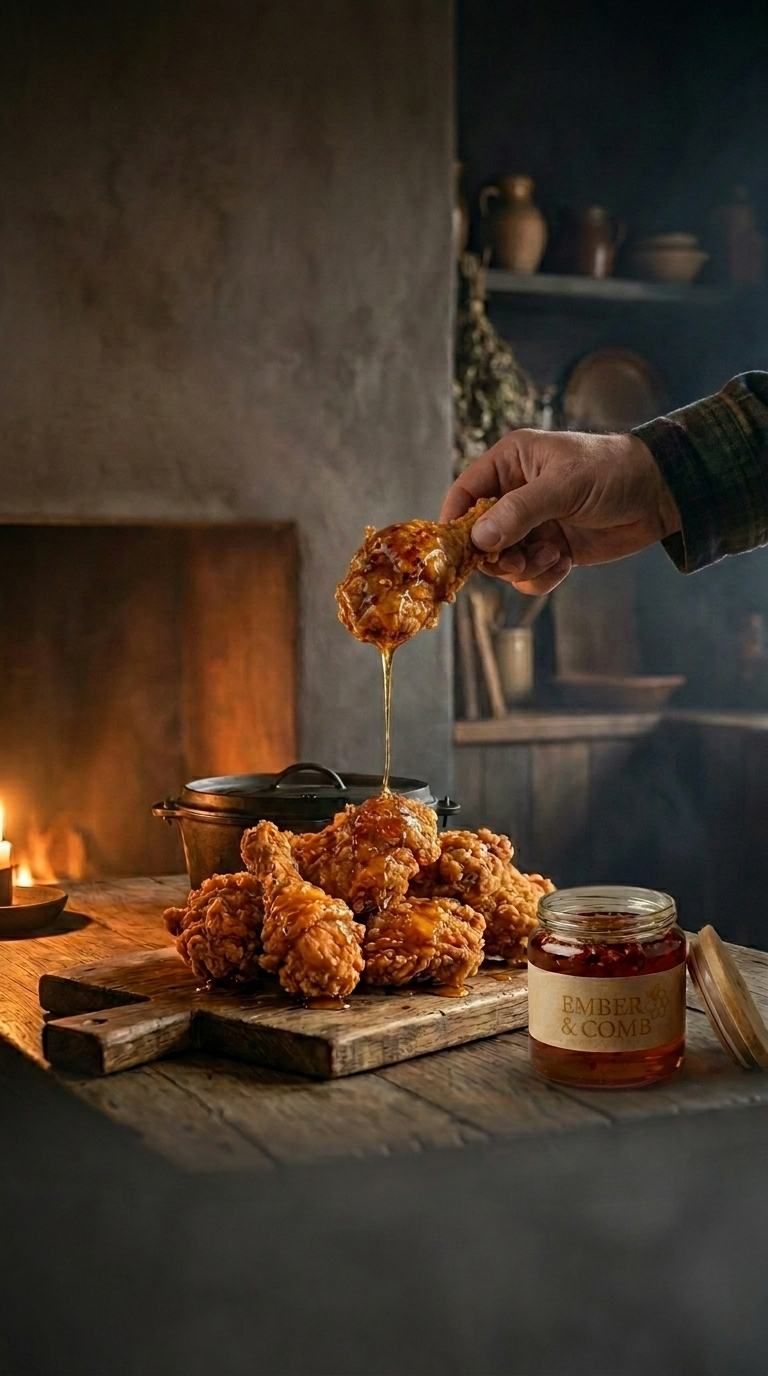
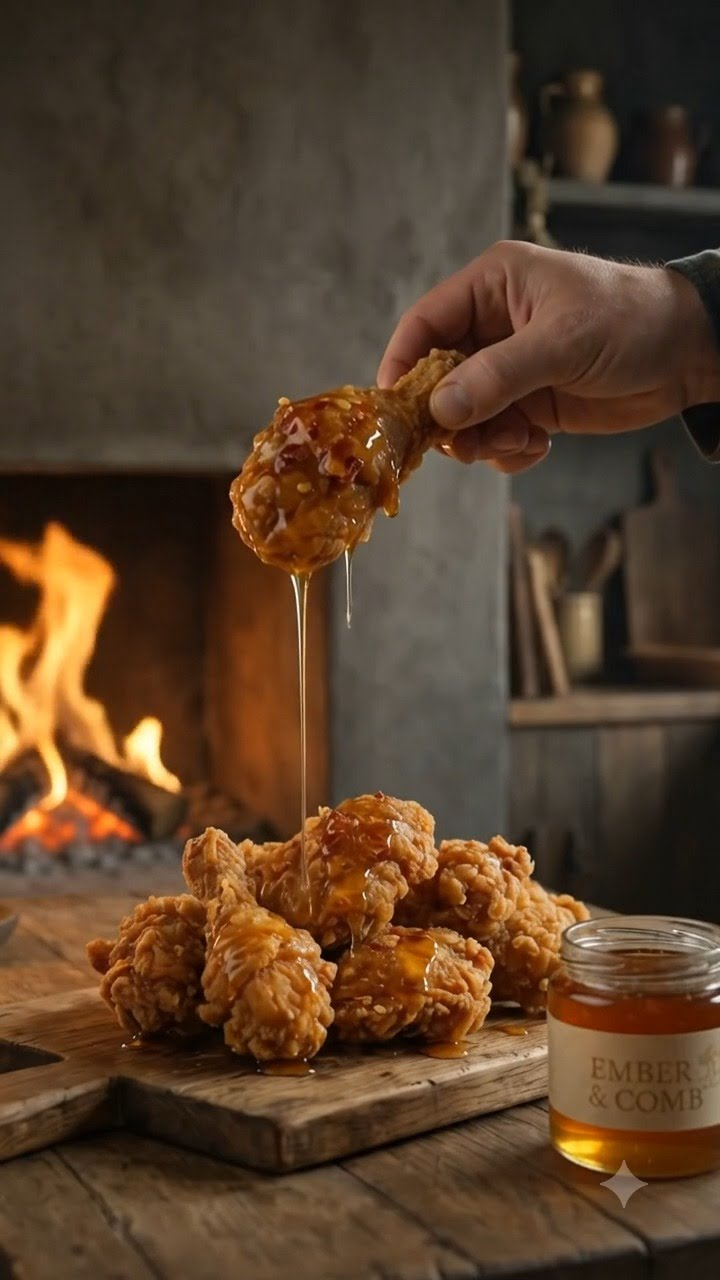
README: add "Range" showcase with two new brand-swap examples (Kestra, Vespra)
Demonstrates the brand-blind premise: the same grammar produces three different worlds,
each internally consistent. Adds 6 static-series renders (kestra_post1-3, vespra_post1-3)
and documents them in the assets slot table. README-only showcase, no per-brand docs.

diff --git a/README.md b/README.md
@@ -114,6 +114,28 @@ All rendered stills and the reel live in [`assets/examples/`](assets/examples/).
 
 ---
 
+## Range — the same system, different worlds
+
+The point of a brand-blind system is that **swapping the Profile retargets everything.** Below, the *same* five-layer grammar, asset-locking, negative-space and scale rules produce three completely different worlds — each holding its product identical across its own art direction. Only the Profile changed.
+
+**Ember & Comb — warm, hearth-lit craft food.** Shown above: the master frame, the derived shots, and the reel.
+
+**Kestra — sporty luxury** (performance footwear). Cool graphite and steel, one hard sculptural light, dynamic energy, a single electric-lime accent.
+
+| Hero · concrete | Motion · chalk burst | Wet concrete · dusk |
+|:---:|:---:|:---:|
+| ![Kestra hero on concrete](assets/examples/kestra_post1.jpeg) | ![Kestra frozen mid-stride](assets/examples/kestra_post2.jpeg) | ![Kestra on wet concrete at dusk](assets/examples/kestra_post3.jpeg) |
+
+**Vespra — premium minimalist** (fragrance). Monochrome neutral, a single soft raking light, deep shadow, vast restraint — the bottle as a museum object.
+
+| Hero · pedestal | Shadow study | Plaster wall · dusk |
+|:---:|:---:|:---:|
+| ![Vespra hero on plaster pedestal](assets/examples/vespra_post1.jpeg) | ![Vespra shadow study on stone](assets/examples/vespra_post2.jpeg) | ![Vespra against a plaster wall](assets/examples/vespra_post3.jpeg) |
+
+*Three products, three art directions, one engine — and within each, the product stays consistent across every frame. That is the whole proposition: invent the look once, then reproduce it without drift.*
+
+---
+
 ## Using it with an LLM
 
 Load Docs 00–03 and 06 (plus your filled Profile) into an assistant's persistent knowledge, add 04 or 05 depending on what you make, and give it the short system prompt in [Doc 00 §5](docs/00_System_Operating_Contract.md). **[SETUP.md](SETUP.md) is the full step-by-step** — including a copy-paste system prompt and per-platform instructions for Claude Projects, custom GPTs, and Gemini Gems.

diff --git a/assets/README.md b/assets/README.md
@@ -23,3 +23,16 @@ Rendered from the prompts in the [worked example](../examples/worked_reel_EmberA
 | `ember_reel.mp4` | The assembled ~10s reel | Step 4–5 |
 
 Reference them from the docs (paths relative to the repo root), e.g. `![Ember & Comb master frame](assets/examples/ember_master_frame.jpeg)`.
+
+## Showcase brands — the README "Range" section
+
+Two extra fictional brands, each a 3-image static series, used only in the main README to show the system's range across art directions (they have no worked-example docs):
+
+| File | Brand · what it shows |
+|---|---|
+| `kestra_post1.jpeg` | Kestra (sporty luxury) — hero on concrete |
+| `kestra_post2.jpeg` | Kestra — frozen mid-stride, chalk burst |
+| `kestra_post3.jpeg` | Kestra — wet concrete at dusk |
+| `vespra_post1.jpeg` | Vespra (premium minimalist) — hero on a plaster pedestal |
+| `vespra_post2.jpeg` | Vespra — shadow study on stone |
+| `vespra_post3.jpeg` | Vespra — half-shadow against a plaster wall |

diff --git a/CHANGELOG.md b/CHANGELOG.md
@@ -2,6 +2,17 @@
 
 All notable changes to the Art Direction Engine.
 
+## [1.2.0] — 2026-06-03
+
+### Added
+- README **"Range — the same system, different worlds"** showcase: two extra fictional
+  brands rendered as 3-image static series — **Kestra** (sporty luxury / footwear) and
+  **Vespra** (premium minimalist / fragrance) — demonstrating that swapping only the
+  Profile retargets the whole system while each brand stays internally consistent.
+- Six showcase renders under `assets/examples/` (`kestra_post1-3`, `vespra_post1-3`),
+  documented in the assets slot table. These two brands are README-only (no worked-example
+  docs by design).
+
 ## [1.1.0] — 2026-06-03
 
 ### Added
